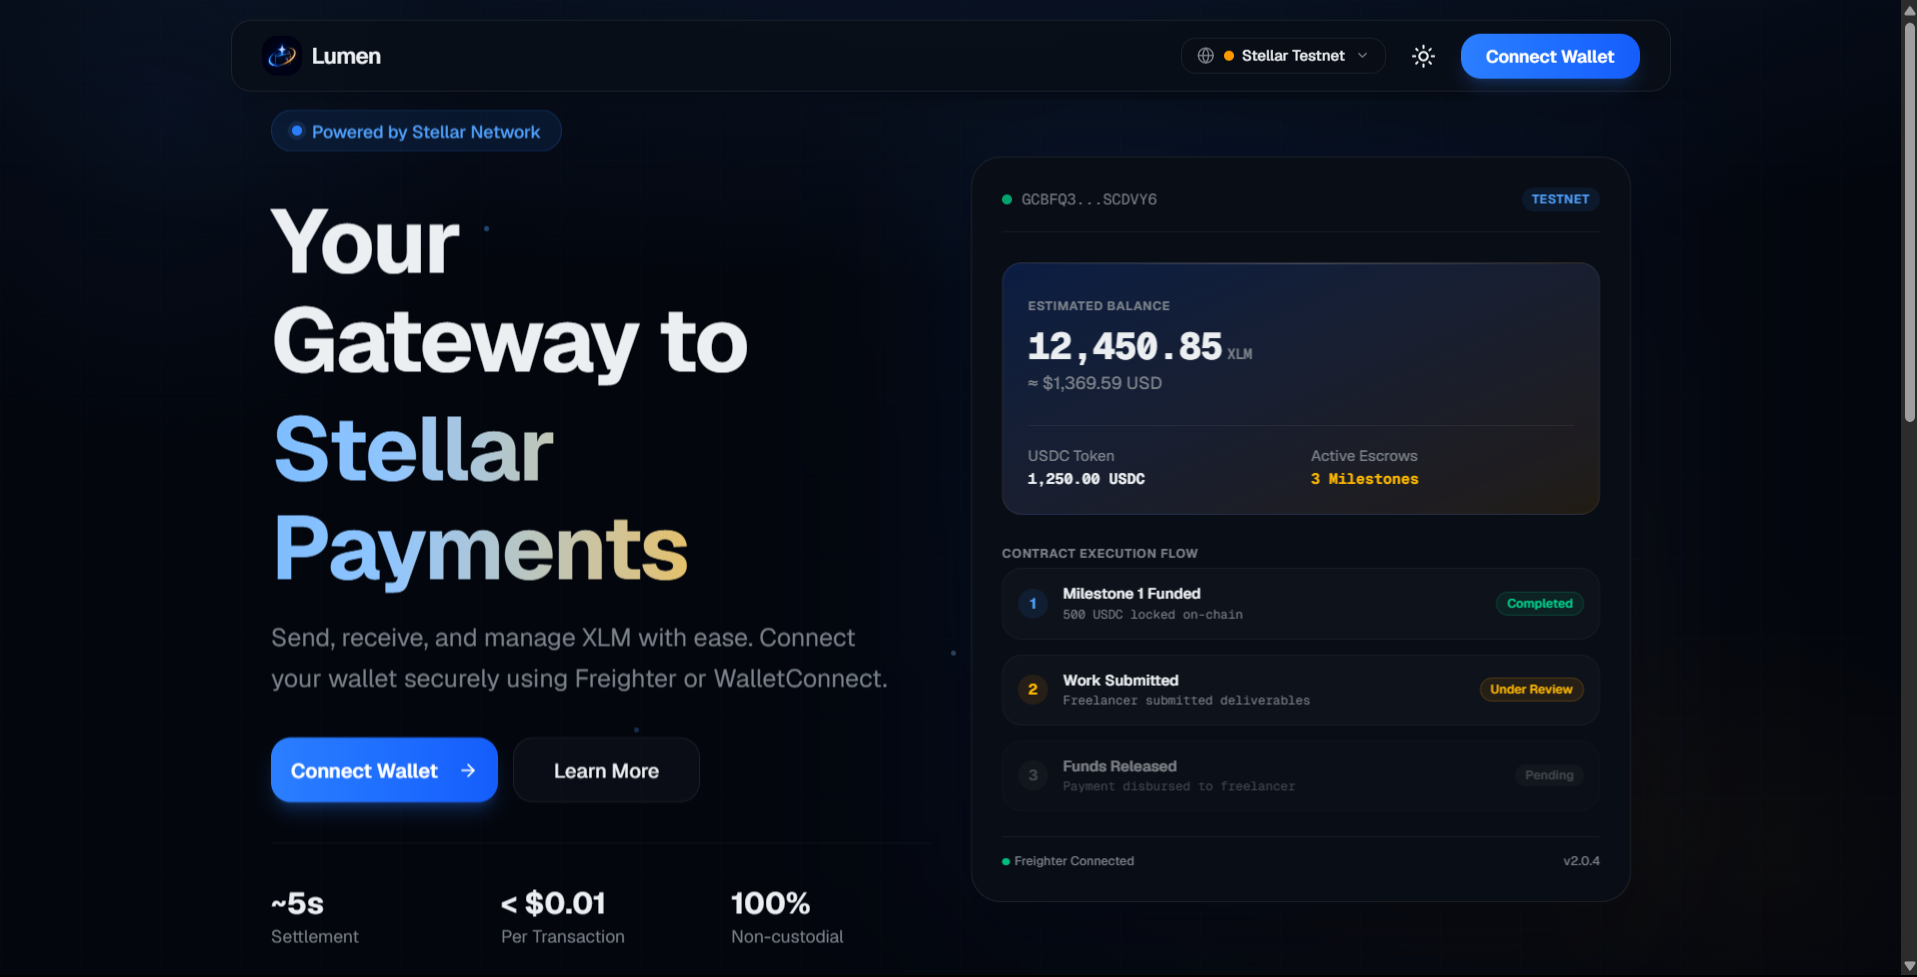
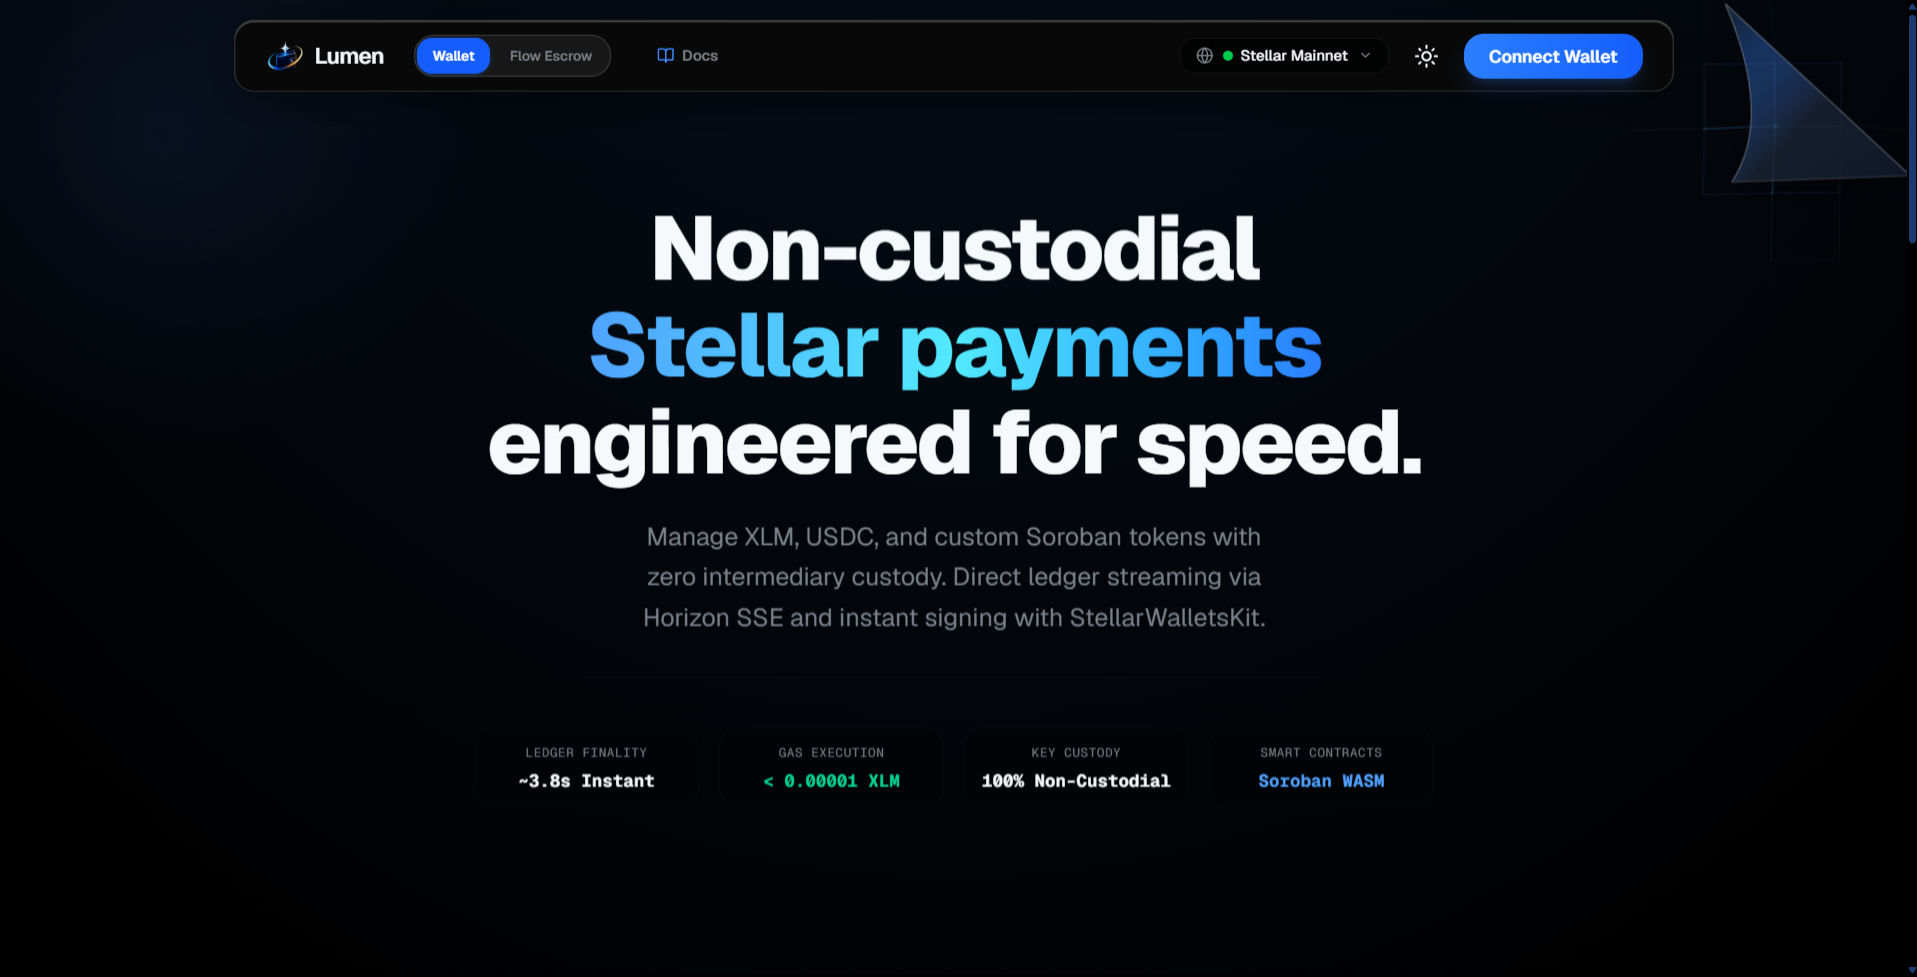
docs: include all latest screenshots, Soroban smart contract architecture, and updated frontend tech stack diagram in README

diff --git a/README.md b/README.md
@@ -169,6 +169,8 @@ Lumen Wallet is a **full-featured, modern web-based wallet** for the Stellar blo
 
 ## 📜 Smart Contracts
 
+![Soroban Smart Contracts Architecture](public/smartcontract.png)
+
 ### Deployed Contract Addresses
 
 #### 1. Custom Token (Soroban SEP-41 Token)
@@ -220,7 +222,7 @@ Lumen Wallet is a **full-featured, modern web-based wallet** for the Stellar blo
 
 ## 🛠 Tech Stack
 
-![Alt Text](public/frontend.png)
+![Frontend & Ecosystem Architecture](public/frontend.png)
 
 | Category | Technology |
 |----------|-----------|
